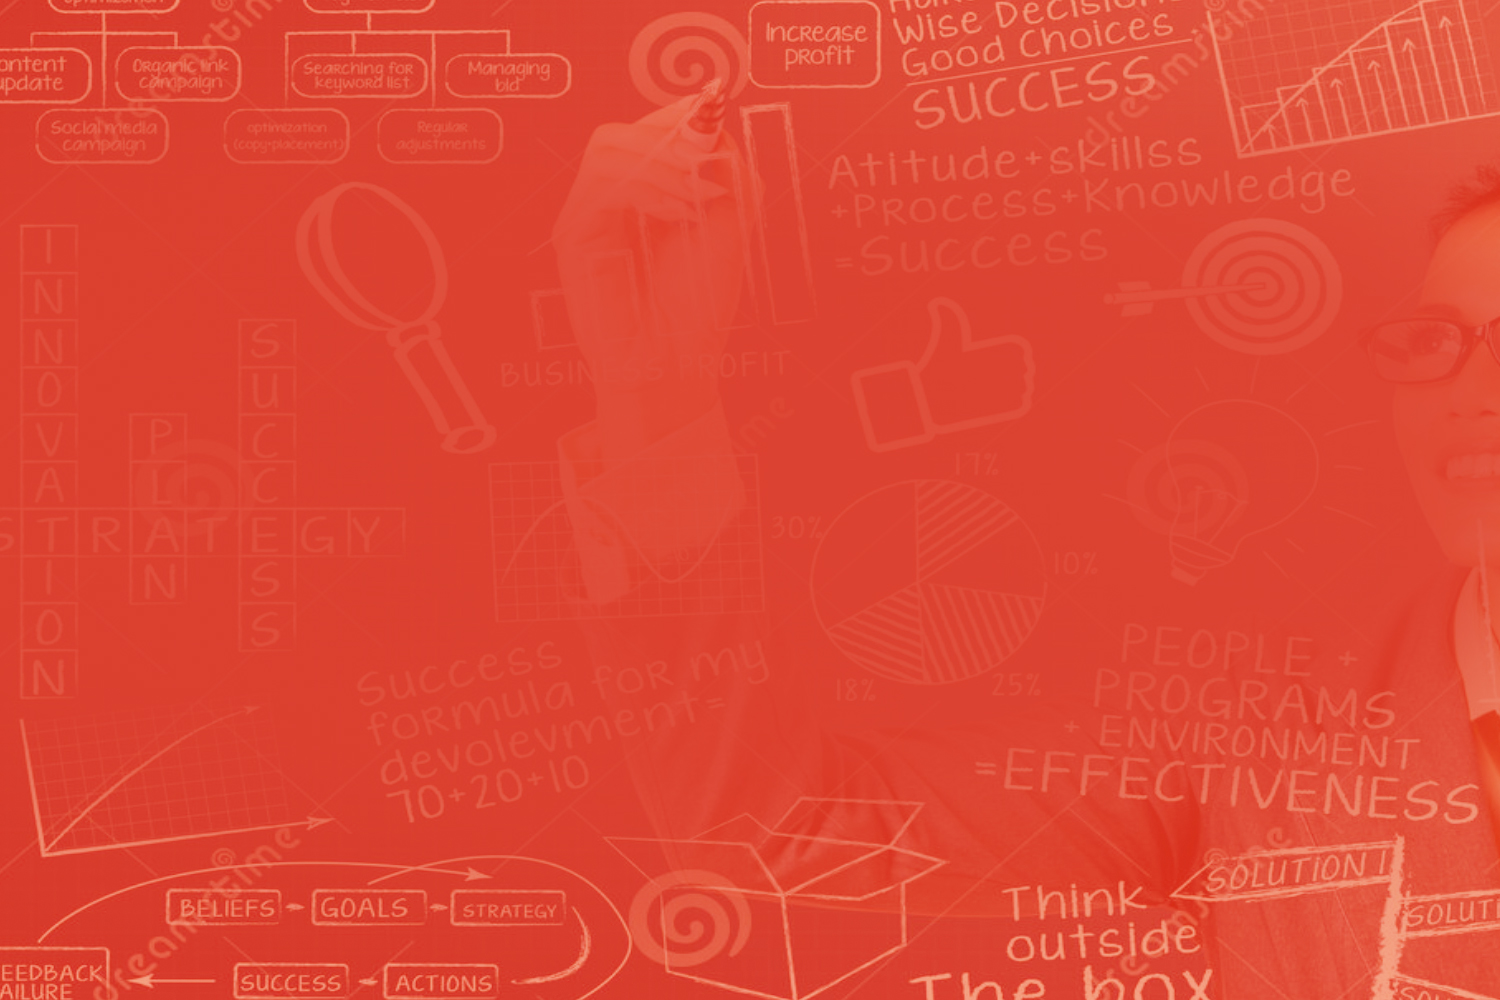
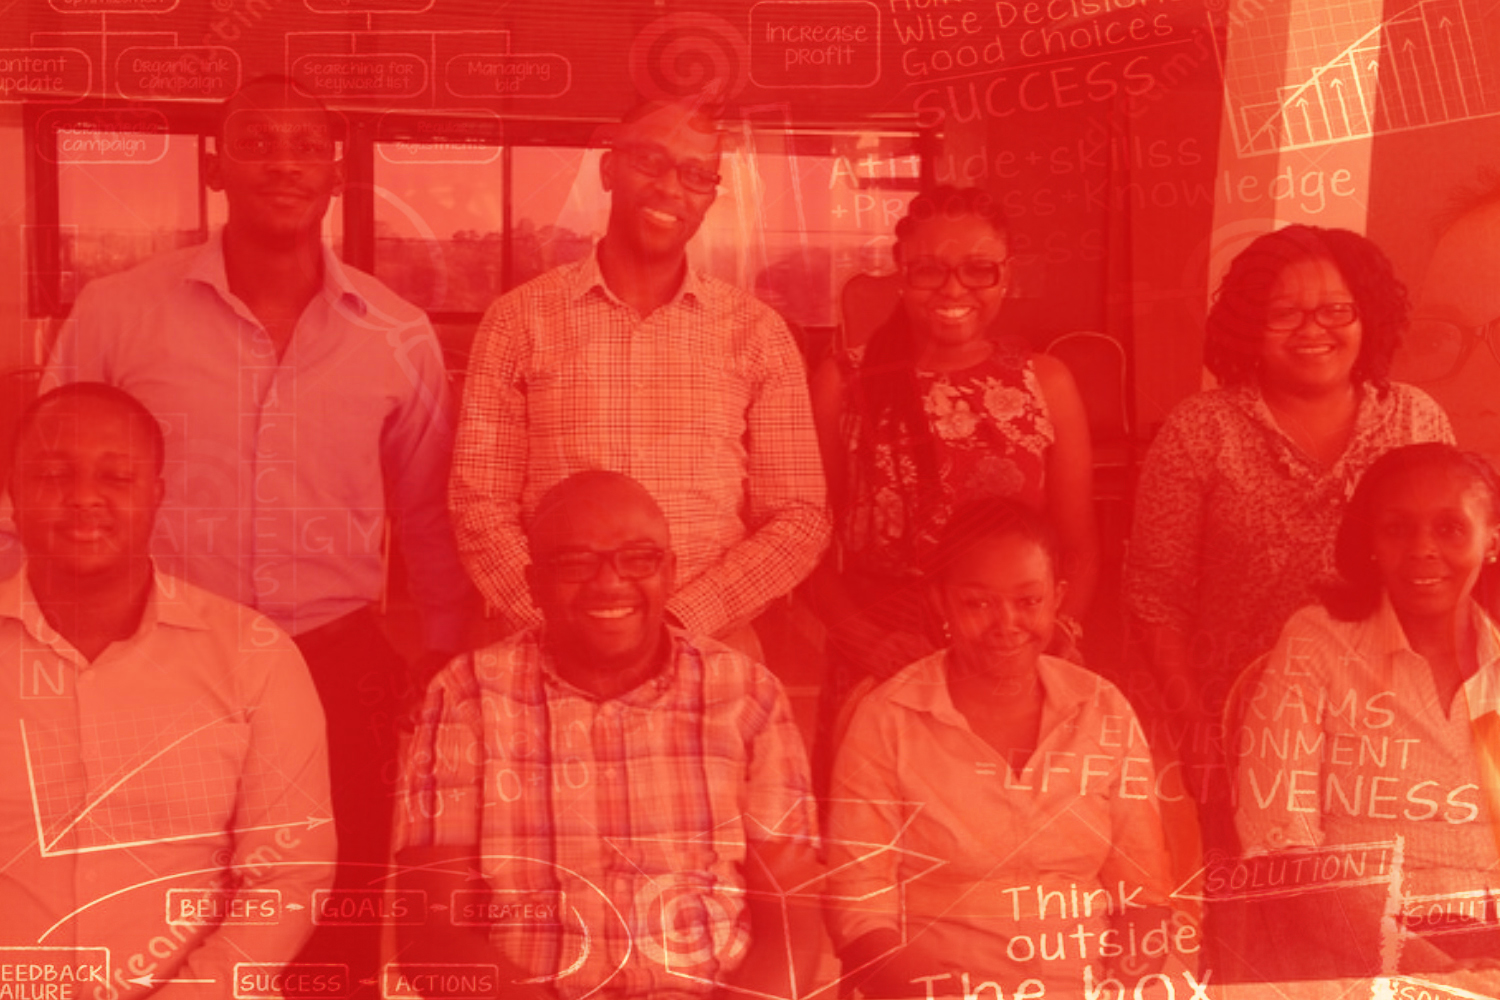
added new hero image

diff --git a/css/style.css b/css/style.css
@@ -1,9 +1,5 @@
-body {
-  /*background-color: #e8694b;*/
-  /*height: 500px;*/
-}
-
 .under{
+  background-color: #e8694b;
   text-align: center;
   margin: 20% 0;
   height: 300px;

diff --git a/index.php b/index.php
@@ -33,7 +33,6 @@
                     <ul class="top-nav">
                       <li><a href="#intro">About Nkemi <span class="indicator"><i class="fa fa-angle-right"></i></span></a></li>
                       <li><a href="#features">What we do <span class="indicator"><i class="fa fa-angle-right"></i></span></a></li>
-                      <li><a href="#responsive">Our Clients <span class="indicator"><i class="fa fa-angle-right"></i></span></a></li>
                       <li><a href="#portfolio">Portfolio <span class="indicator"><i class="fa fa-angle-right"></i></span></a></li>
                       <li><a href="#team">Our Team <span class="indicator"><i class="fa fa-angle-right"></i></span></a></li>
                       <li><a href="#contact">Get in Touch <span class="indicator"><i class="fa fa-angle-right"></i></span></a></li>
@@ -55,7 +54,7 @@
                 <div class="col-md-8 col-md-offset-2 text-center inner">
                   <div class="logo-pad animated"><img src="img/nkemilogo.png" alt=""></div>
                   <cms:editable name='tag_line' type='richtext'>
-                    <!-- <h2 class="tagline animated delay-05s">Need ground breaking strategy?<em>Come to us</em></h2> -->
+                    <h2 class="tagline delay-05s">Ground breaking strategy, World class execution.</h2>
                   </cms:editable>
                 </div>
               </div>
